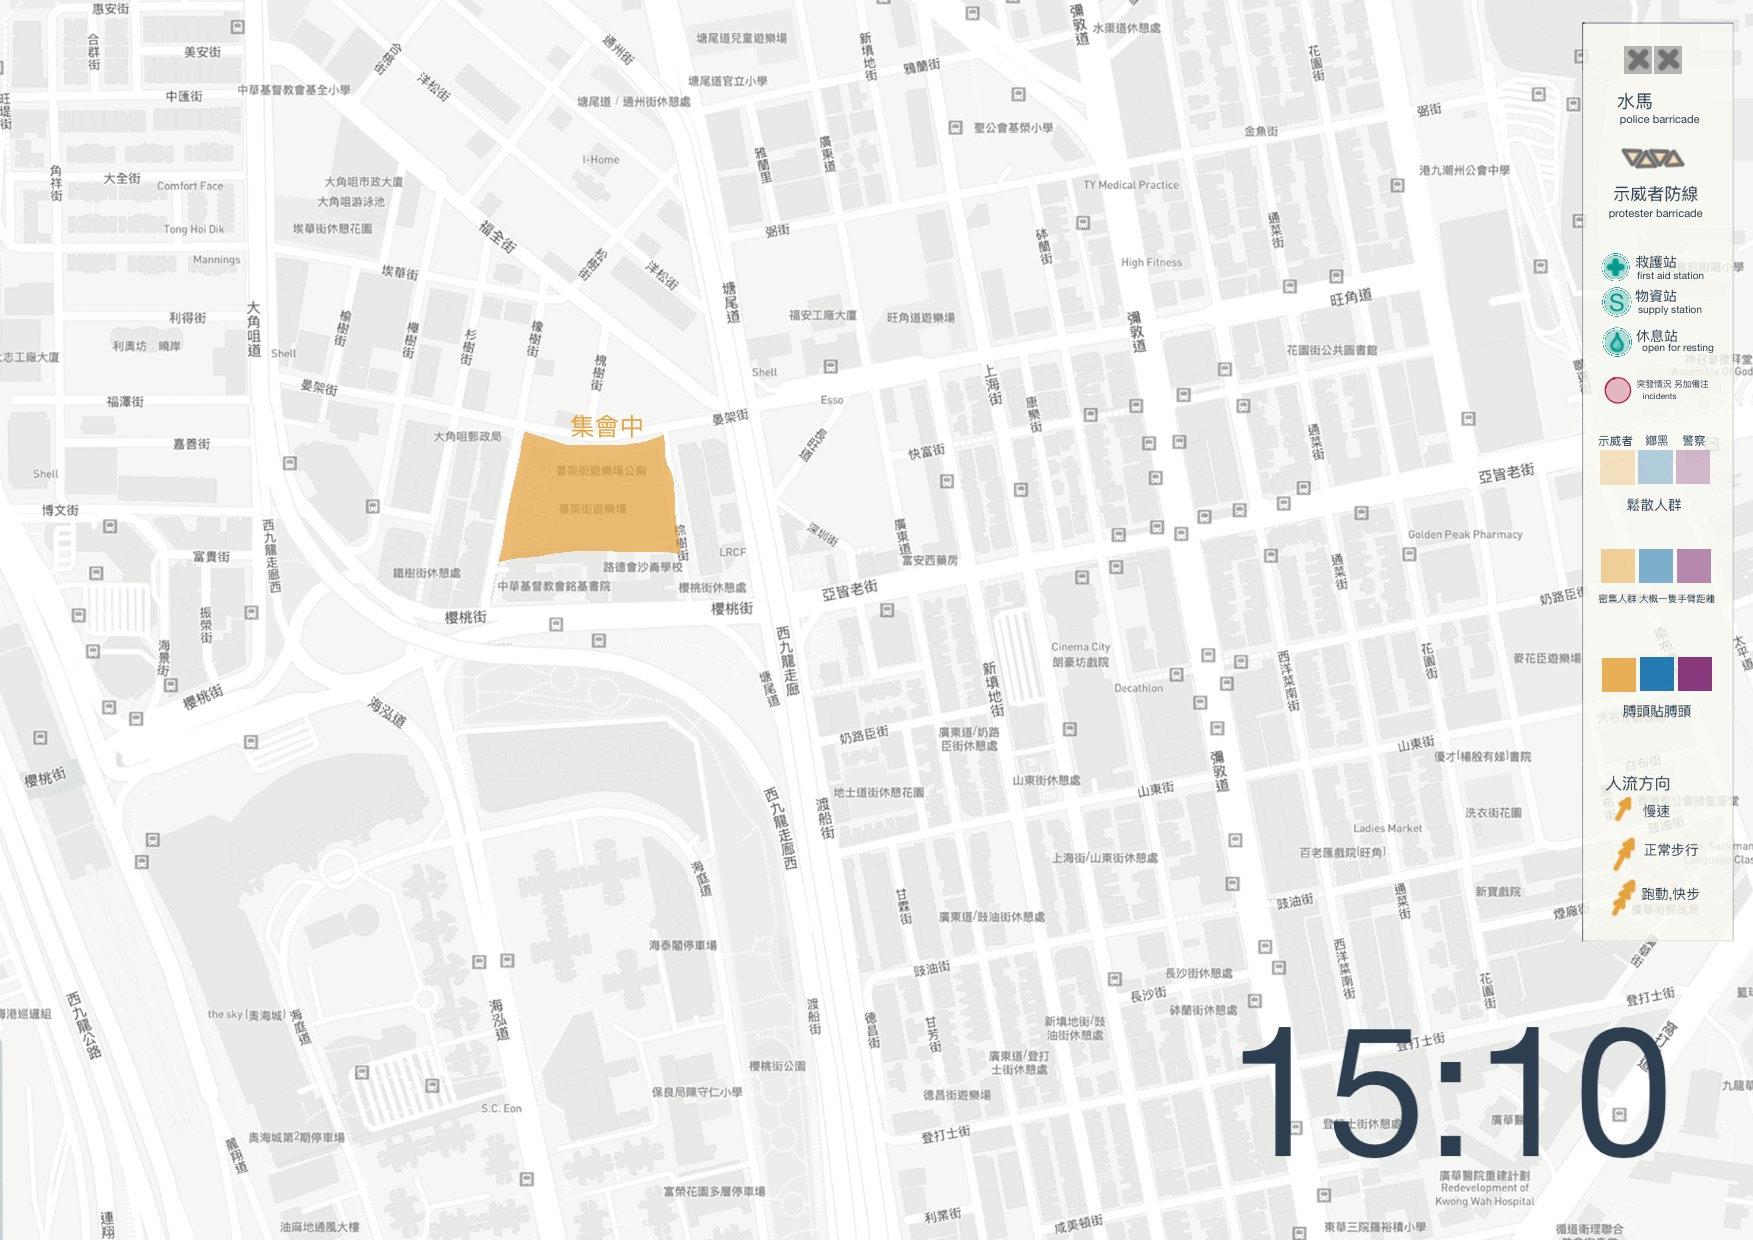
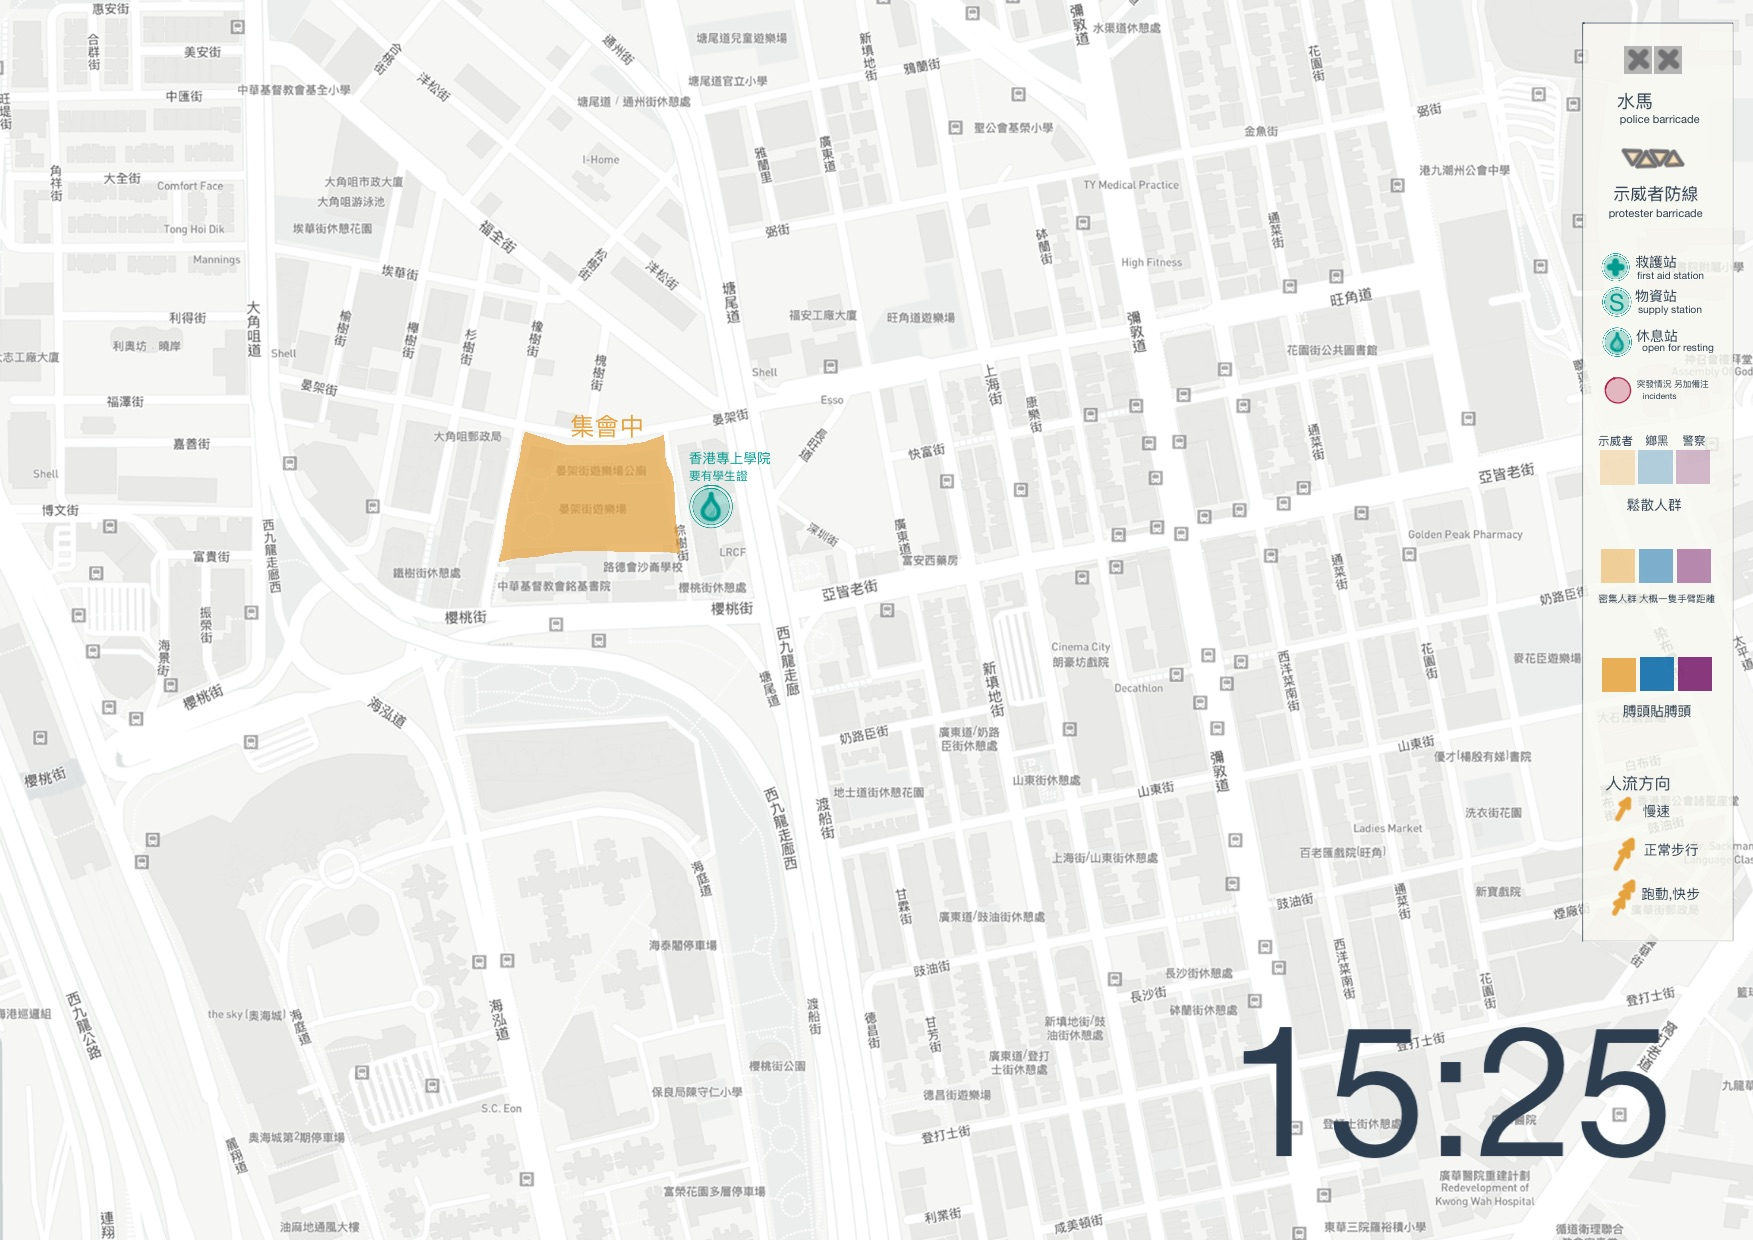
update 1525

Changed region(s): [[0.8317, 0.8274, 0.9549, 0.95], [0.3697, 0.3677, 0.4313, 0.429]]

diff --git a/docs/map/README.md b/docs/map/README.md
@@ -18,7 +18,9 @@
 
 <center>
 
-![](/now.jpg =x400)
+![](/now.jpg)
+
+![](/now2.jpg)
 
 </center>
 
